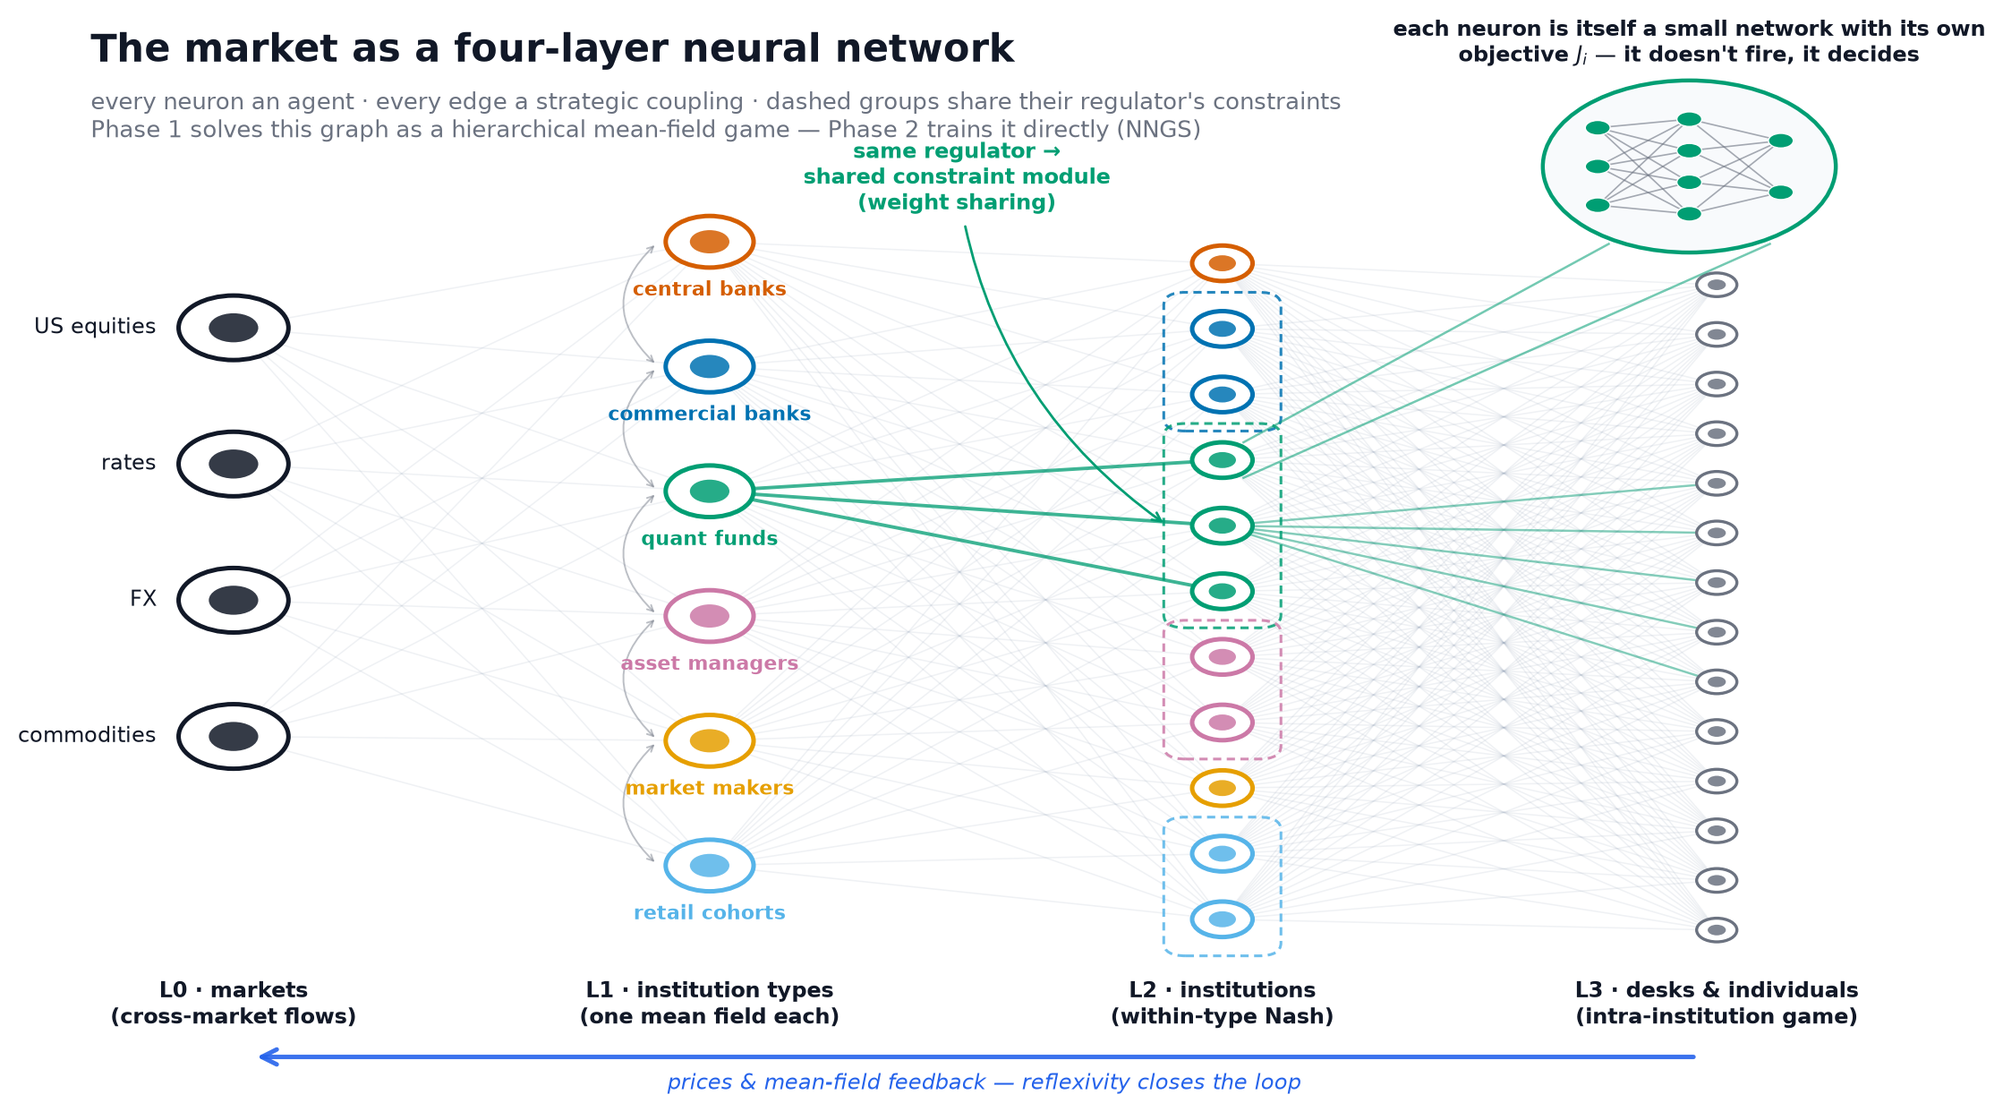
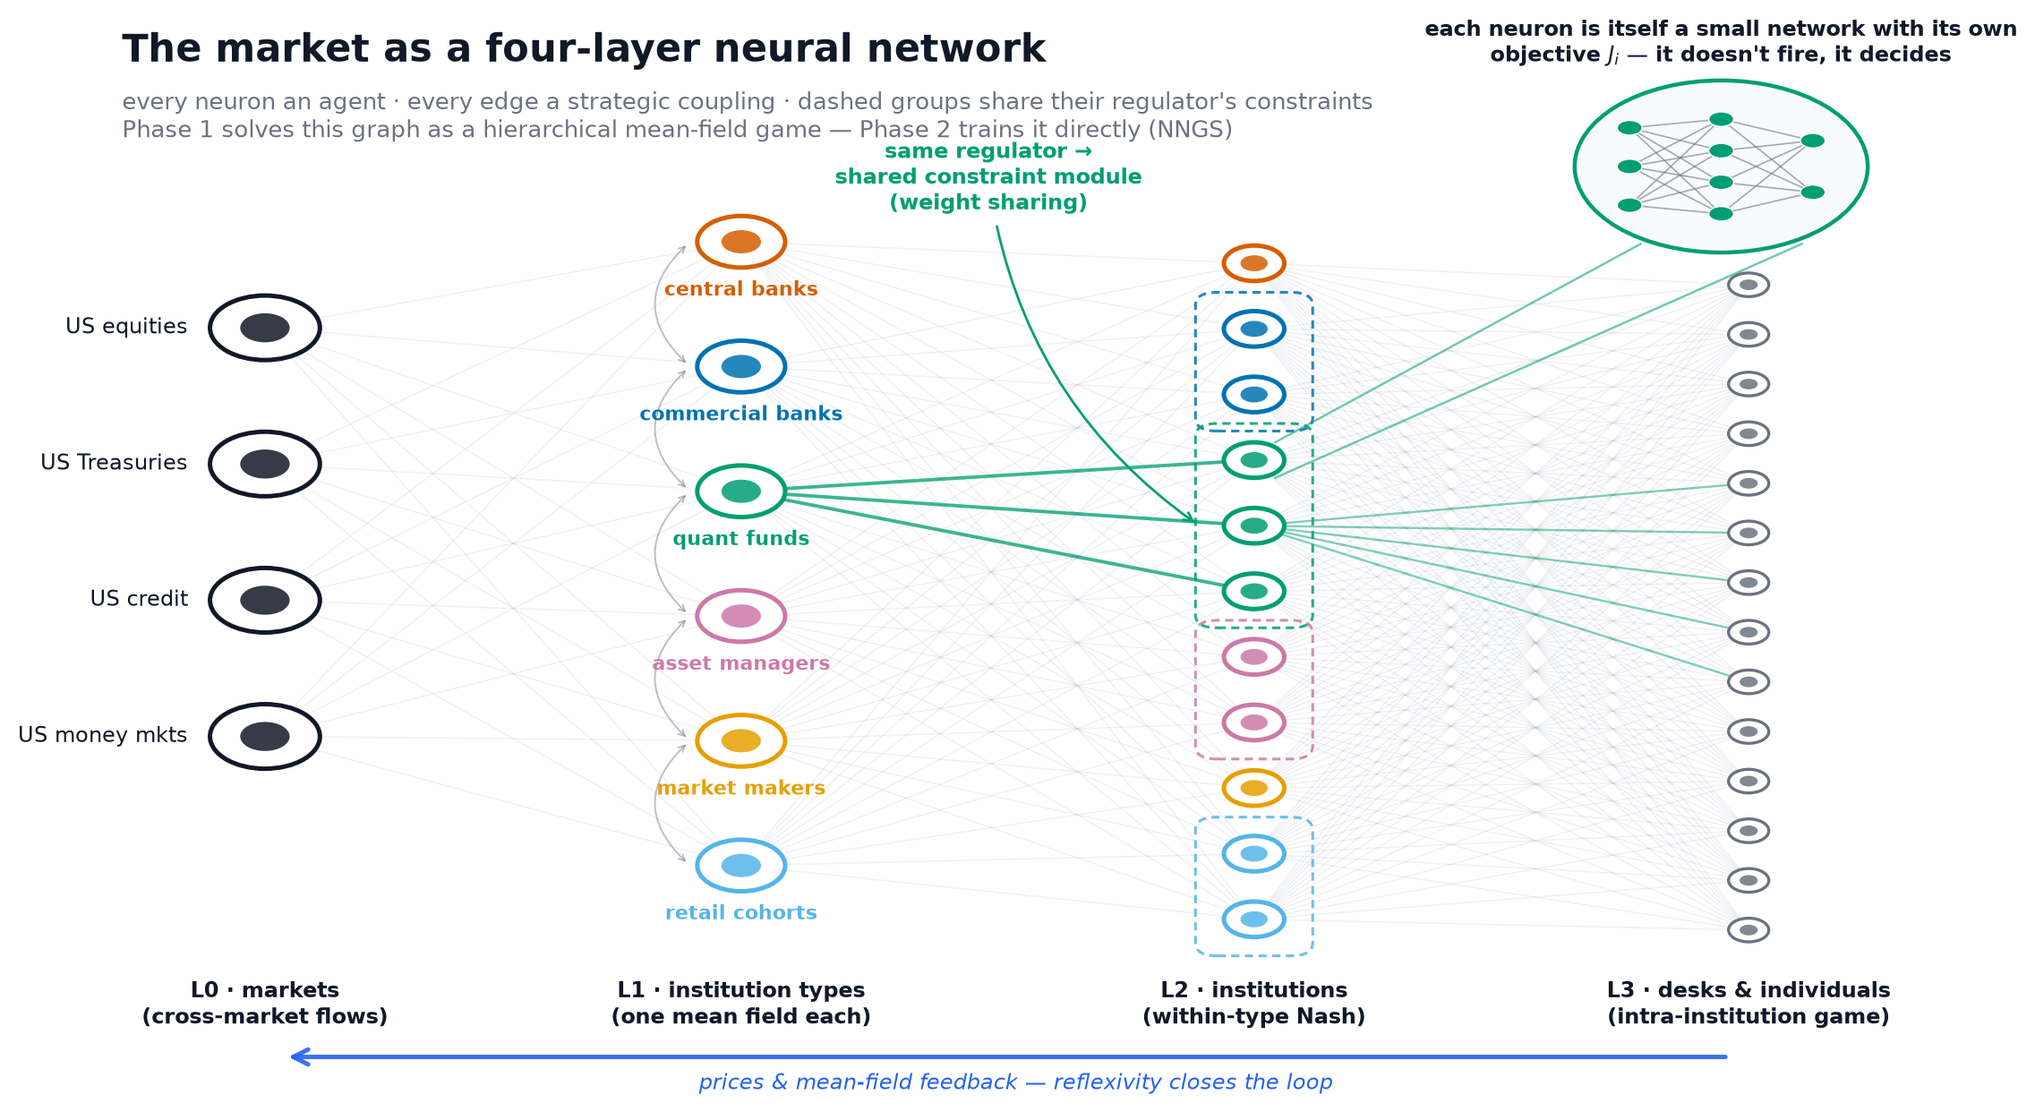
Upgrade the market layering: capital-flow layers 0-6, parallel layer, two outer rings
- docs/MARKET_LAYERS.md: the full role taxonomy by direction of capital
  flow (surplus sector -> asset owners -> allocation -> managers -> sell
  side -> infrastructure -> issuers; prop/HFT parallel layer; information
  and rules outer rings), EN with the Chinese original appended, plus the
  mapping table showing how the model consumes it (outer ring 2 = the
  constraint architecture, outer ring 1 = the information architecture)
- README section renamed 'The Market as a Layered Game - Plumbing and
  Projection': the real plumbing table first, then the four game levels
  recast explicitly as the Phase-1 projection (Theorem 7.4 untouched);
  NNGS ingests the full graph in Phase 2. EN + CN synced.
- four_level_network figure: L0 assets now US-only

diff --git a/scripts/make_four_layer_nn.py b/scripts/make_four_layer_nn.py
@@ -39,7 +39,7 @@ LAYER_LABEL = [
     "L2 · institutions\n(within-type Nash)",
     "L3 · desks & individuals\n(intra-institution game)",
 ]
-l0_names = ["US equities", "rates", "FX", "commodities"]
+l0_names = ["US equities", "US Treasuries", "US credit", "US money mkts"]
 l1_specs = [("central banks", C_CB), ("commercial banks", C_BANK),
             ("quant funds", C_QUANT), ("asset managers", C_AM),
             ("market makers", C_MM), ("retail cohorts", C_RETAIL)]

diff --git a/docs/MARKET_LAYERS.md b/docs/MARKET_LAYERS.md
@@ -1,0 +1,157 @@
+# The Market's Real Layers — by Direction of Capital Flow
+
+The rigorous role taxonomy behind MicroWorld's agent universe. The market
+is layered **by function along the direction money flows** — not by
+company, and not by the four-level game abstraction the mathematics solves
+(that abstraction is a *projection* of this map; see
+[the mapping](#how-microworld-consumes-this-map) at the end).
+
+*中文原文在文末附錄。US market focus; the taxonomy itself is general.*
+
+---
+
+## Main chain — money flowing downstream, Layer 0 → Layer 6
+
+### Layer 0 · The original surplus sector (where money begins)
+- Retail / individual investors
+- High-net-worth (HNWI) and ultra-high-net-worth (UHNWI) individuals
+- Non-financial corporate retained earnings; corporate treasury
+- Government fiscal surpluses; FX reserves
+- Overseas sector (cross-border savings inflows)
+
+### Layer 1 · Institutionalized asset owners (liability-side constraints)
+- **Retirement**: public pensions (GPIF, CalPERS), corporate DB/DC plans, sovereign pension reserve funds
+- **Insurance**: life, property & casualty, reinsurance
+- **Other long-horizon pools**: sovereign wealth funds (GIC, Temasek, Norway GPFG), university endowments, charitable foundations, single/multi-family offices (SFO/MFO), central-bank reserve management, bank treasury investment books
+
+### Layer 2 · Allocation & conduit (decides who manages the money; places no orders)
+- **Gatekeepers**: funds-of-funds, manager-of-managers, investment consultants (Mercer, Cambridge Associates), OCIO
+- **Wealth channels**: private banks, wealth management, independent advisors (RIA/IFA), robo-advisors, bank distribution, broker wealth management, third-party fund platforms, trust companies
+- **Indirect-finance conduit**: the commercial-bank deposit→loan system
+
+### Layer 3 · Asset managers (buy side — turns allocation into positions; the alpha-competition layer)
+- **Traditional long-only**: mutual funds, index funds, ETF issuers, SMAs, money-market funds
+- **Hedge funds**: equity long/short, quant / stat-arb, CTA / managed futures, global macro, event-driven / merger-arb, credit / distressed, relative-value / fixed-income arb, convertible arb, multi-strategy, tail-risk
+- **Private markets**: buyout, growth equity, VC, private credit / direct lending, mezzanine, secondaries, real-estate PE, infrastructure, natural resources
+- **Other**: REIT managers, insurance asset management, bank AM subsidiaries, commodity funds, crypto funds, self-directed retail (dual-listed at Layer 0)
+
+### Layer 4 · Sell side & trading intermediaries (fees from access, leverage, spread)
+- **Investment banking**: ECM, DCM, M&A advisory, sales & trading, sell-side research, structured products / derivatives desks, sponsors
+- **Brokerage & financing**: retail brokers, institutional brokers, FCMs, introducing brokers, prime brokers, securities-lending agents
+- **Dealers**: OTC / swap dealers, repo desks, FX dealers, inter-dealer brokers (TP ICAP), commodity traders (Glencore)
+
+### Layer 5 · Market infrastructure (where money and securities actually change hands)
+- **Venues**: securities exchanges, futures/options exchanges, ATS/ECN/MTF, dark pools, single-dealer platforms, OTC electronic platforms (Tradeweb, MarketAxess), crypto exchanges
+- **Clearing & settlement**: CCPs (LCH, OCC, NSCC), CSDs (DTC, Euroclear, Clearstream), transfer agents
+- **Custody & administration**: custodians (BNY Mellon, State Street), fund administrators, TA/registrars
+- **Payment networks**: Fedwire/CHIPS, SWIFT (messaging), CLS (FX PvP settlement)
+
+### Layer 6 · Capital demanders (issuers — the final users of money; the primary-market gate)
+- **Corporate**: IPO / follow-on, corporate bonds, convertibles, commercial paper, syndicated-loan borrowers
+- **Financial-institution funding**: bank debt / AT1, insurance subordinated debt
+- **Public sector**: Treasuries, municipal bonds, agencies, supranationals (World Bank, ADB)
+- **Structured & other**: securitization SPVs (MBS, ABS, CLO), covered-bond issuers, SPACs, household borrowing (mortgages/consumer credit — securitized back into the market)
+
+## Parallel layer — proprietary-capital traders (outside the client-money chain; interfaces at Layers 4–5)
+- Market-making prop firms: Jane Street, Optiver, SIG, IMC, DRW
+- High-frequency trading: Virtu, Jump, XTX
+- Large market makers: Citadel Securities
+- Bank prop desks (constrained post-Volcker)
+- Active corporate-treasury operations
+
+## Outer ring 1 — information & pricing auxiliaries (touch no money; steer where it flows)
+- Rating agencies (Moody's, S&P, Fitch)
+- Index providers (MSCI, S&P DJI, FTSE Russell)
+- Market-data vendors (Bloomberg, LSEG/Refinitiv, FactSet); alternative-data vendors
+- Independent research; expert networks (GLG)
+- Proxy advisors (ISS, Glass Lewis)
+- Auditors, law firms, valuation agents
+- Financial media; investor relations
+- OMS/EMS trading-technology vendors
+
+## Outer ring 2 — rules & last-resort support (spans every layer)
+- Central banks (monetary policy, lender of last resort, direct buyer under QE)
+- Securities regulators (SEC, SFC, CSRC); futures regulators (CFTC)
+- Bank regulators (Fed, OCC, HKMA, Basel Committee)
+- Treasuries / finance ministries (issuance + crisis support)
+- Deposit insurance (FDIC); investor protection (SIPC)
+- Self-regulatory organizations (FINRA)
+- International coordination (IMF, BIS, FSB, IOSCO)
+
+## The flow, summarized
+
+> Savings (L0) → institutionalization (L1) → allocation (L2) → positions
+> (L3) → access (L4) → settlement (L5) → issuers (L6) → the real economy;
+> returns (dividends, interest, principal, buybacks) flow back along the
+> same path. The parallel layer earns liquidity money between L4–L5 only;
+> the two outer rings never touch the money but set the flow and the rules
+> of every segment.
+
+## Usage notes
+
+1. Layers are **functional, not corporate** — JPMorgan appears simultaneously at Layers 2/3/4/5.
+2. Some roles are **multi-layer by nature**: retail (L0 + L3), central banks (L1 + outer ring 2), households (L0 savers + L6 borrowers — securitization closes the loop).
+3. The outer rings are **"shadow allocators who never touch the money"**: index inclusion and rating changes directly move flows.
+4. Crypto runs a parallel copy: stablecoin issuers ≈ issuers, DeFi protocols ≈ infrastructure, validators ≈ settlement.
+
+---
+
+## How MicroWorld consumes this map
+
+| This map | In the model |
+|---|---|
+| Layers 0–6 (main chain) | The **agent universe** — each layer a family of agent classes with its own objectives, constraints, and information sets ([`agents/`](../agents/)); the current 6+5 class taxonomy is the Phase-1 subset, to be extended layer-by-layer |
+| Parallel layer (prop/HFT) | Liquidity-provision agents coupled to the price field (the $w_5$ inventory/gap coupling in the MVP figure) |
+| **Outer ring 2** (regulators) | **The constraint modules** — the per-type weight sharing NNGS imposes as architecture; regulation *is* the shared projection layer |
+| **Outer ring 1** (index/rating/data) | **The information operators** — filtration structure ([`state/information.py`](../state/information.py)) and flow-steering event operators (index inclusion = a Mode-I operator on μ) |
+| The four game levels L0–L3 of the mathematics | The **tractable projection** of this map that Phase 1 solves (hierarchical MFG, Theorem 7.4): game-L0 ≈ aggregate cross-market flow over the whole chain; game-L1 ≈ strategic classes drawn from Layers 1–4 + parallel; game-L2 ≈ individual institutions; game-L3 ≈ desks. **Phase 2 (NNGS) drops the projection and ingests this full layered graph directly.** |
+
+---
+
+<details>
+<summary><b>附錄 · 中文原文（完整版）</b></summary>
+
+# 市場角色完整分層（按資金流動方向）
+
+## 主鏈：資金順流方向 第0層 → 第6層
+
+### 第0層 原始盈餘部門（錢最初的來源）
+散戶/個人投資者；高淨值個人（HNWI）、超高淨值（UHNWI）；非金融企業留存盈餘、企業財資部門；政府財政盈餘、外匯儲備；海外部門資金（跨境儲蓄流入）
+
+### 第1層 機構化出資人（asset owners，有負債端約束）
+退休養老：公共養老金（GPIF、CalPERS）、企業年金（DB/DC）、主權養老儲備基金；保險：壽險、財險、再保險；其他長期資本池：主權財富基金（GIC、Temasek、挪威GPFG）、大學捐贈基金、慈善基金會、單一/聯合家族辦公室（SFO/MFO）、央行儲備管理、銀行財資自有投資
+
+### 第2層 配置與導管層（決定錢給誰管，不直接下單）
+守門人：FoF、MOM、投資顧問（Mercer、Cambridge Associates）、OCIO；財富渠道：私人銀行、財富管理、獨立顧問（RIA/IFA）、智能投顧、銀行代銷、券商財富管理、第三方基金平台、信託公司；間接融資導管：商業銀行存貸體系
+
+### 第3層 資產管理人（買方，把配置變成持倉，alpha 競爭層）
+傳統多頭：共同基金、指數基金、ETF發行商、SMA/專戶、貨幣市場基金；對沖基金：股票多空、量化/統計套利、CTA、全球宏觀、事件驅動/併購套利、信用/不良資產、相對價值/固收套利、可轉債套利、多策略、尾部風險；私募市場：併購基金、成長股權、VC、私募信貸、夾層資本、S基金、地產私募、基建基金、自然資源基金；其他：REITs管理人、保險資管、銀行理財/資管子公司、商品基金、加密資產基金、散戶自主交易（兼第0層）
+
+### 第4層 賣方與交易中介（靠通道/槓桿/價差收費）
+投資銀行：ECM、DCM、M&A、銷售交易、賣方研究、結構化產品/衍生品部門、保薦人；經紀與融資：零售券商、機構經紀、期貨經紀（FCM）、介紹經紀、Prime broker、證券借貸代理；交易商：OTC/衍生品交易商、回購交易商、外匯交易商、貨幣經紀（TP ICAP）、大宗商品貿易商（Glencore）
+
+### 第5層 市場基礎設施（錢與證券實際換手交割處）
+交易場所：證券/期貨/期權交易所、ATS/ECN/MTF、暗池、單一交易商平台、OTC電子平台（Tradeweb、MarketAxess）、加密交易所；清算交收：CCP（LCH、OCC、NSCC）、CSD（DTC、Euroclear、Clearstream）、過戶代理；保管與行政：託管行（BNY Mellon、State Street）、基金行政、申贖登記；支付網絡：Fedwire/CHIPS、SWIFT、CLS
+
+### 第6層 資金需求方（發行人，錢的最終使用者，一級市場入口）
+企業融資：IPO/增發、公司債、可轉債、商業票據、銀團貸款借款人；金融機構融資：銀行債/AT1、保險次級債；公共部門：國債、地方政府債、機構債、超國家機構；結構化與其他：證券化SPV（MBS、ABS、CLO）、covered bond、SPAC、家庭借款端（證券化後回流市場）
+
+## 平行層：自有資金交易者（不在客戶資金鏈內，對接第4-5層）
+做市型自營：Jane Street、Optiver、SIG、IMC、DRW；高頻交易：Virtu、Jump、XTX；大型做市商：Citadel Securities；銀行自營盤（Volcker rule 後受限）；企業財資主動操作
+
+## 外圈1：資訊與定價輔助（不碰資金，但決定資金往哪流）
+評級機構（Moody's、S&P、Fitch）；指數公司（MSCI、S&P DJI、FTSE Russell）；行情與數據商（Bloomberg、LSEG、FactSet）、另類數據商；獨立研究、專家網絡（GLG）；代理投票顧問（ISS、Glass Lewis）；審計師、律師事務所、估值機構；財經媒體、投資者關係；OMS/EMS 交易技術商
+
+## 外圈2：規則與最後支持（貫穿所有層次）
+央行（貨幣政策、最後貸款人、QE時直接買方）；證券監管（SEC、SFC、中國證監會）、期貨監管（CFTC）；銀行監管（Fed、OCC、HKMA、巴塞爾委員會）；財政部；存款保險（FDIC）、投資者保護（SIPC）；自律組織（FINRA）；國際協調（IMF、BIS、FSB、IOSCO）
+
+## 資金流總結
+儲蓄（第0層）→ 機構化（第1層）→ 配置（第2層）→ 持倉（第3層）→ 通道（第4層）→ 交割（第5層）→ 發行人（第6層）→ 實體經濟；報酬沿原路回流。平行層自營資金只在第4-5層之間賺流動性的錢；兩個外圈不經手資金，但決定每一段的流量與規則。
+
+## 使用注意
+1. 層次按功能劃分，不按公司劃分——JPMorgan 同時出現在第2/3/4/5層。
+2. 部分角色身兼多層：散戶（第0+第3層）、央行（第1層+外圈2）、家庭（第0層出錢+第6層借錢，經證券化形成閉環）。
+3. 外圈是「不碰錢的影子配置者」：指數納入與評級直接決定資金進出。
+4. 加密平行體系：穩定幣發行商≈發行人、DeFi協議≈基礎設施、驗證者≈結算層。
+
+</details>

diff --git a/README.md b/README.md
@@ -117,7 +117,7 @@ python demo/global_demo.py     # reproduce this GIF end-to-end (~2 min, CPU, no 
 3. [Why This Question Is Urgent — Right Now](#why-this-question-is-urgent--right-now)
 4. [What Came Before — And Why It Falls Short](#what-came-before--and-why-it-falls-short)
 5. [Two Kinds of World Model: Type 1 and Type 2](#two-kinds-of-world-model-type-1-and-type-2)
-6. [The Market as a Four-Level Game](#the-market-as-a-four-level-game)
+6. [The Market as a Layered Game — Plumbing and Projection](#the-market-as-a-layered-game--plumbing-and-projection)
 7. [The E-Game-C Architecture](#the-e-game-c-architecture)
 8. [The Mathematical Framework](#the-mathematical-framework-two-threads-one-theory)
 9. [The Unified Evolution Equation](#the-unified-evolution-equation-theorem-91)
@@ -281,7 +281,7 @@ The term "world model" is used loosely in the literature [5, 6, 7]. For financia
 
 ---
 
-## The Market as a Four-Level Game
+## The Market as a Layered Game — Plumbing and Projection
 
 [![The Four-Level Universe — interactive 3D: rotate, zoom, click any of ~3,700 agents for its storyline](figures/network3d_preview.png)](https://hongjin-he.github.io/MicroWorld/)
 
@@ -292,7 +292,32 @@ The term "world model" is used loosely in the literature [5, 6, 7]. For financia
 
 The diagram above is not a metaphor. The market **is** a four-layer neural network — except the neurons are agents: they do not fire, they **decide**. Every edge is a strategic coupling rather than a passive weight; every dashed group shares its regulator's constraint module (the same weight-sharing that regulation imposes in reality); and the whole graph is closed by the price-feedback loop — reflexivity. Phase 1 solves this network as a hierarchical mean-field game. Phase 2 ([NNGS](docs/PHASE2_NEURAL_GAME.md)) trains it directly, one small neural network per neuron — which is why the figure looks the way it does.
 
-There is an ancient Chinese insight: *個人由環境造就* — the individual is shaped by the environment. Our framework makes this precise. The four levels are not isolated: each agent is simultaneously a product of all levels above it and a contributor to all levels above it. The environment is not external noise — it is the aggregate of every other agent's strategy.
+There is an ancient Chinese insight: *個人由環境造就* — the individual is shaped by the environment. Our framework makes this precise. The layers are not isolated: each agent is simultaneously a product of the layers above it and a contributor to them. The environment is not external noise — it is the aggregate of every other agent's strategy.
+
+### The real plumbing: seven layers of capital flow, one parallel layer, two outer rings
+
+A market's roles are layered by **the direction money flows** — not by four convenient tiers. The complete taxonomy is **[docs/MARKET_LAYERS.md](docs/MARKET_LAYERS.md)**; the skeleton:
+
+| Layer | Who | What they decide |
+|---|---|---|
+| **0** · Surplus sector | retail, HNWIs, corporate treasuries, fiscal surpluses | where savings enter |
+| **1** · Asset owners | pensions (CalPERS, GPIF), insurers, SWFs, endowments | liability-driven mandates |
+| **2** · Allocation & conduits | consultants/OCIO, private banks, fund platforms, the bank deposit→loan system | who manages the money (places no orders) |
+| **3** · Asset managers | mutual/index/ETF, hedge funds, private markets | positions — the alpha-competition layer |
+| **4** · Sell side & intermediaries | investment banks, prime brokers, dealers | access, leverage, spread |
+| **5** · Infrastructure | exchanges, CCPs/CSDs, custodians, payment rails | where money and securities actually settle |
+| **6** · Issuers | corporates, the Treasury, securitization SPVs | the demand for capital |
+| **∥** · Parallel layer | prop market makers & HFT (Jane Street, Citadel Securities, Virtu…) | liquidity between L4–L5, own capital only |
+| **◎1** · Information ring | index providers, rating agencies, data vendors, media | steer flows without touching money |
+| **◎2** · Rules ring | central banks, SEC/CFTC/Fed, FDIC, BIS | constraints and last resort |
+
+> Savings (0) → institutionalization (1) → allocation (2) → positions (3) → access (4) → settlement (5) → issuers (6) → the real economy — and returns flow back along the same path.
+
+Two structural facts the model exploits directly: **outer ring 2 is the constraint architecture** — every agent type's shared regulatory projection, the weight sharing drawn in the figure above — and **outer ring 1 is the information architecture** — the filtrations and flow-steering operators (an index inclusion is a Mode-I event on μ). And layers are functional, not corporate: JPMorgan lives at layers 2, 3, 4, and 5 simultaneously; retail sits at 0 and 3; the central bank at 1 and ◎2.
+
+### The projection the mathematics solves
+
+Phase 1 does not attack the ten-role graph head-on — it solves its **game projection**: four nested levels of strategic aggregation (the hierarchy of Theorem 7.4), coarse-graining the plumbing as *game-L0* ≈ aggregate cross-market flow over the whole chain, *game-L1* ≈ the strategic classes drawn from layers 1–4 plus the parallel layer, *game-L2* ≈ individual institutions, *game-L3* ≈ desks and individuals. **Phase 2 ([NNGS](docs/PHASE2_NEURAL_GAME.md)) drops the projection and ingests the full layered graph directly.** The four game levels below are that projection:
 
 ### Level 0 — Cross-Market Capital Flow Game
 
